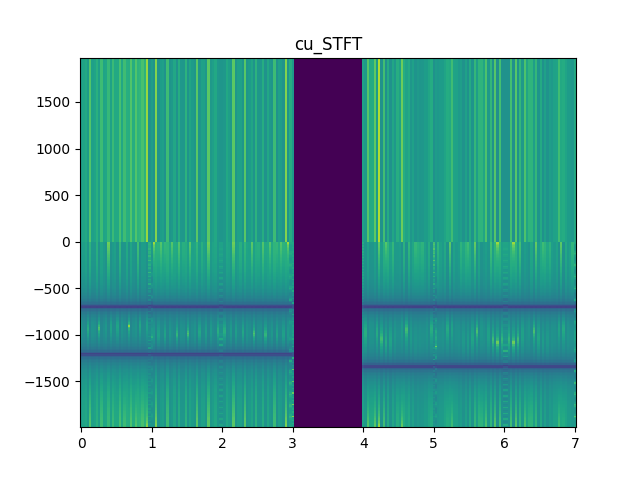
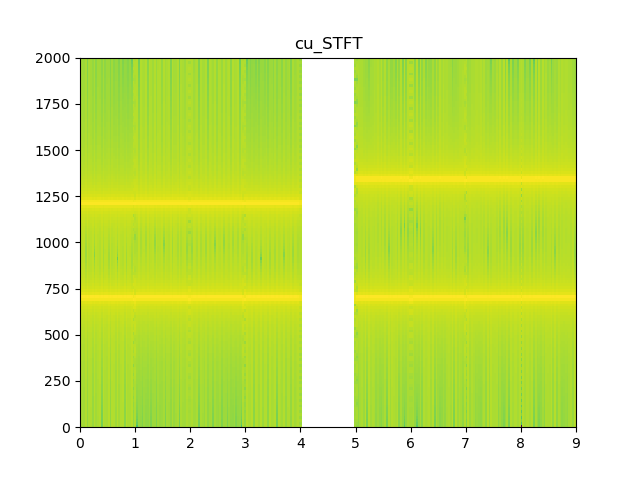
further fixed stft, should be finished now

diff --git a/python_testbenches/cu_stft_test.py b/python_testbenches/cu_stft_test.py
@@ -21,10 +21,7 @@ class testbench():
     # testbench results
 
     tb_results = {
-        "ringtone_test" : False,
-        "simple_one": False,
-        "simple_two": False,
-        "simple_three": False,
+        "ringtone_test" : False
     }
     
     # helper functions
@@ -79,7 +76,7 @@ class testbench():
 
         self.tb_results["simple_one"] = tb_result
 
-    def ringtone_test(self, nfft: int = 256, noverlap: int = -1, visualize_output: bool = False):
+    def ringtone_test(self, nfft: int = 256, noverlap: int = -1, percent_error_threshold: int = 0.001, visualize_output: bool = False):
         """
         Description: FFT of two signals
         Inputs: 
@@ -90,7 +87,7 @@ class testbench():
         Effects: updates tb_results
         """
         sample_rate   = 4000
-        length_ts_sec = 3
+        length_ts_sec = 4
         ## --------------------------------- ##
         ## 3 seconds of "digit 1" sound
         ## Pressing digit 2 buttom generates 
@@ -122,64 +119,65 @@ class testbench():
         # concatenates the lists, doesn't sum their values like a numpy array
         ts = ts1 + ts_silence  + ts2
 
-        print("About to take cuSTFT")
-        result = cu.cuSTFT(list(ts), nfft, noverlap)
-        for i in range(result.shape[1]):
-            result[:, i] = 5 * np.log10(np.abs(result[:, i])**2 / (nfft*sample_rate), where=np.abs(result[:,i])>0)
-        f_copy = np.linspace(0, sample_rate, result.shape[0])
+        result = cu.cuSTFT(list(ts), sample_rate, nfft, noverlap, True)
         t_copy = np.linspace(0, len(ts)/sample_rate, result.shape[1])
         
-        print("Done cuSTFT")
-        print("Type: {}".format(type(result)))
-        print()
-        # result_f = np.linspace(0, )
-        f, t, stft_results = scipy.signal.stft(ts, fs=sample_rate, window="boxcar", nperseg=256, noverlap=None if noverlap == -1 else noverlap, nfft=nfft, detrend=False, return_onesided=False, boundary=None, padded=False, axis=-1, scaling='psd')
-        for i in range(stft_results.shape[1]):
-            stft_results[:, i] = 10*np.log10(np.abs(stft_results[:, i]), where=np.abs(stft_results[:,i])>0)
-        # print(f)
-        # print('\n')
-        # print(t)
-        # print('\n')
-        # print(t_copy)
-        # print('\n')
-        # fft_result = np.fft.fft(ts[:nfft])
-        # windowed_fft = (2 * fft_result) / (sample_rate*(nfft//2))
-        # windowed_fft = 5 * np.log10(np.abs(fft_result)**2 / ((nfft*sample_rate)), where=fft_result > 0)
-        for i in range(217):
-            print("{}".format(all(np.isclose(result[:,i], stft_results[:,i]))))
+        # calculate stft from scipy's library 
+        f, t, stft_results = scipy.signal.stft(ts, fs=sample_rate, window="boxcar", nperseg=nfft, noverlap=None if noverlap == -1 else noverlap, nfft=nfft, detrend=False, return_onesided=True, boundary=None, padded=False, axis=-1, scaling='psd')
+        # calculate power spectral density of every entry
+        stft_results = np.abs(stft_results)
+        stft_results = 10*np.log10(stft_results)
 
-        # print("isclose: {}".format(np.isclose(result[:, 0], windowed_fft)))
-        # print(result[:10, 0])
-        # print('\n')
-        # print(fft_result[:10])
-        # print('\n')
-        # print(windowed_fft[:10])
-        # print('\n')
-        # print(10*np.log10(np.abs(stft_results[:10,0])))
-        # print('\n')
-        # print(stft_results[:10, 0])
-        # print('\n')
+        # scipy typically trims last time frame, so only check time frames that exists in both arrays
+        lesser_t_len = stft_results.shape[1] if stft_results.shape[1] < result.shape[1] else result.shape[1]
 
-        # tb_result = np.allclose(result, correct_result)
+        # automatically true if every match is close
+        correct_output = np.allclose(result[:,:lesser_t_len], stft_results[:,:lesser_t_len])
+
+        # find entries where result does not match with stft_results
+        counter = 10
+        num_notclose = 0
+        for i in range(lesser_t_len):
+            # iterate through every time frame
+            close = all(np.isclose(result[:,i], stft_results[:,i]))
+            if not close:
+                if visualize_output and counter > 0: print("Not close at time frame {}".format(i))
+                for j in range(stft_results.shape[0]):
+                    # iterate through every frequency in a time frame
+                    curr_stft = stft_results[j,i]
+                    curr_result = result[j,i]
+                    if not np.isclose(curr_stft, curr_result):
+                        # two entries were found not matching
+                        num_notclose += 1
+                        counter -= 1
+                        if visualize_output and counter > 0: print("\tNot matching at row: {}, column: {}; values of scipy: {}, cu: {}".format(i, j, curr_stft, curr_result))
+
+        # total compared entries
+        total = stft_results.shape[0] * lesser_t_len
+        
+        # check if error is permissible for testbench
+        if num_notclose/total < percent_error_threshold:
+            correct_output = True
+
+        tb_result = correct_output
 
         if visualize_output:
+            print("num_notclose: {}, total: {}, error: {}, error_threshold: {}".format(num_notclose, total, num_notclose/total, percent_error_threshold))
             print("cu_stft.shape(): {}, signal.stft.shape: {}".format(result.shape, stft_results.shape))
             plt.title("Scipy STFT")
-            plt.pcolormesh(t, f, np.abs(stft_results))
+            plt.pcolormesh(t, f, (stft_results))
             plt.savefig(dir_path + '/MatplotGraphs/stft_results.png')
+            plt.show()
 
             plt.title("cu_STFT")
-            # plt.pcolormesh(t_copy, f, 10.0*np.log10(np.abs(result)))
-            plt.pcolormesh(t_copy, f, np.abs(result))
-            # plt.pcolormesh(t_copy, f, result)
+            plt.pcolormesh(t_copy, f, (result))
             plt.savefig(dir_path + '/MatplotGraphs/cuSTFT_results.png')
-            # print("Close: {}".format(tb_result))
-            # for i in range(len(correct_result)):
-            #     print("correct: {}, your output: {}".format(correct_result[i], result[i]))
+            plt.show()
 
-        # self.tb_results["ringtone_test"] = tb_result
+        self.tb_results["ringtone_test"] = tb_result
 
 if __name__ == "__main__":
+    print("Current file path is " + dir_path + '\n')
     tb = testbench()
 
     # running tests

diff --git a/include/dsp/dsp.h b/include/dsp/dsp.h
@@ -69,9 +69,11 @@ namespace dsp {
 
     __global__ void FFT_Kernel(const float* samples, cuDoubleComplex* __restrict__ freqs, const int num_samples);
     
-    __host__ int cuSTFT(float* samples, cuDoubleComplex** freqs, int num_samples, int NFFT, int noverlap);
+    __host__ int cuSTFT(float* samples, double** freqs, int sample_rate, int num_samples, int NFFT, int noverlap);
 
-    __global__ void STFT_Kernel(const float* samples, cuDoubleComplex* __restrict__ freqs, const int num_samples, int step);
+    // __global__ void STFT_Kernel(const float* samples, cuDoubleComplex* __restrict__ freqs, const int num_samples, int step);
+
+    __global__ void STFT_Kernel(const float* samples, double* __restrict__ freqs, int sample_rate, int step);
 
     /* if this is being used as a library, symbol copying must happen in this library */
     __host__ void cpy_to_symbol();
